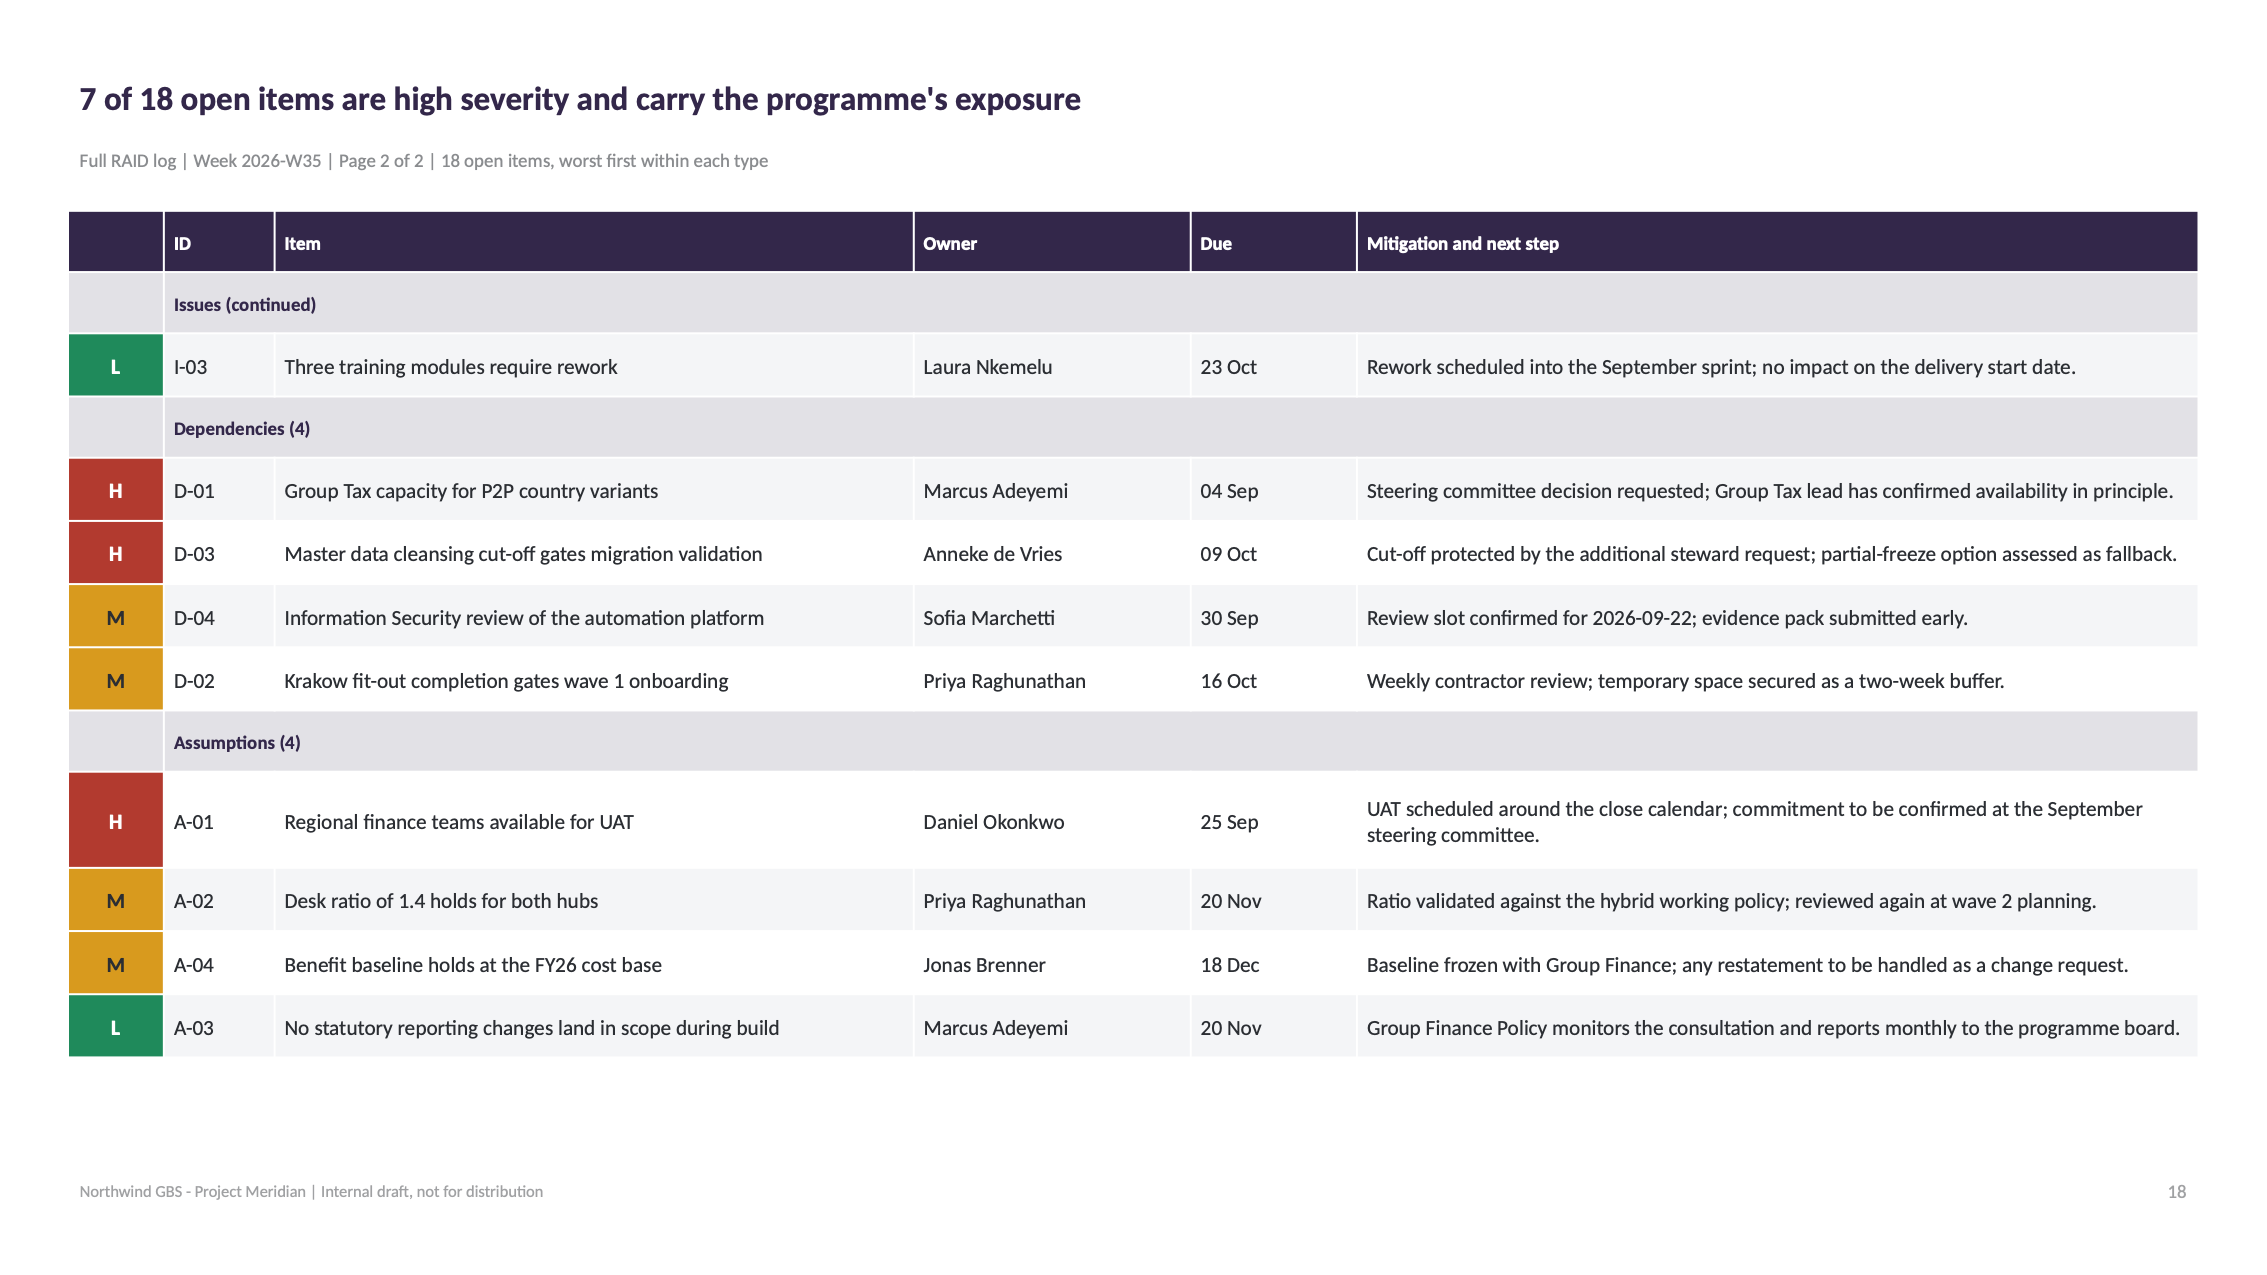
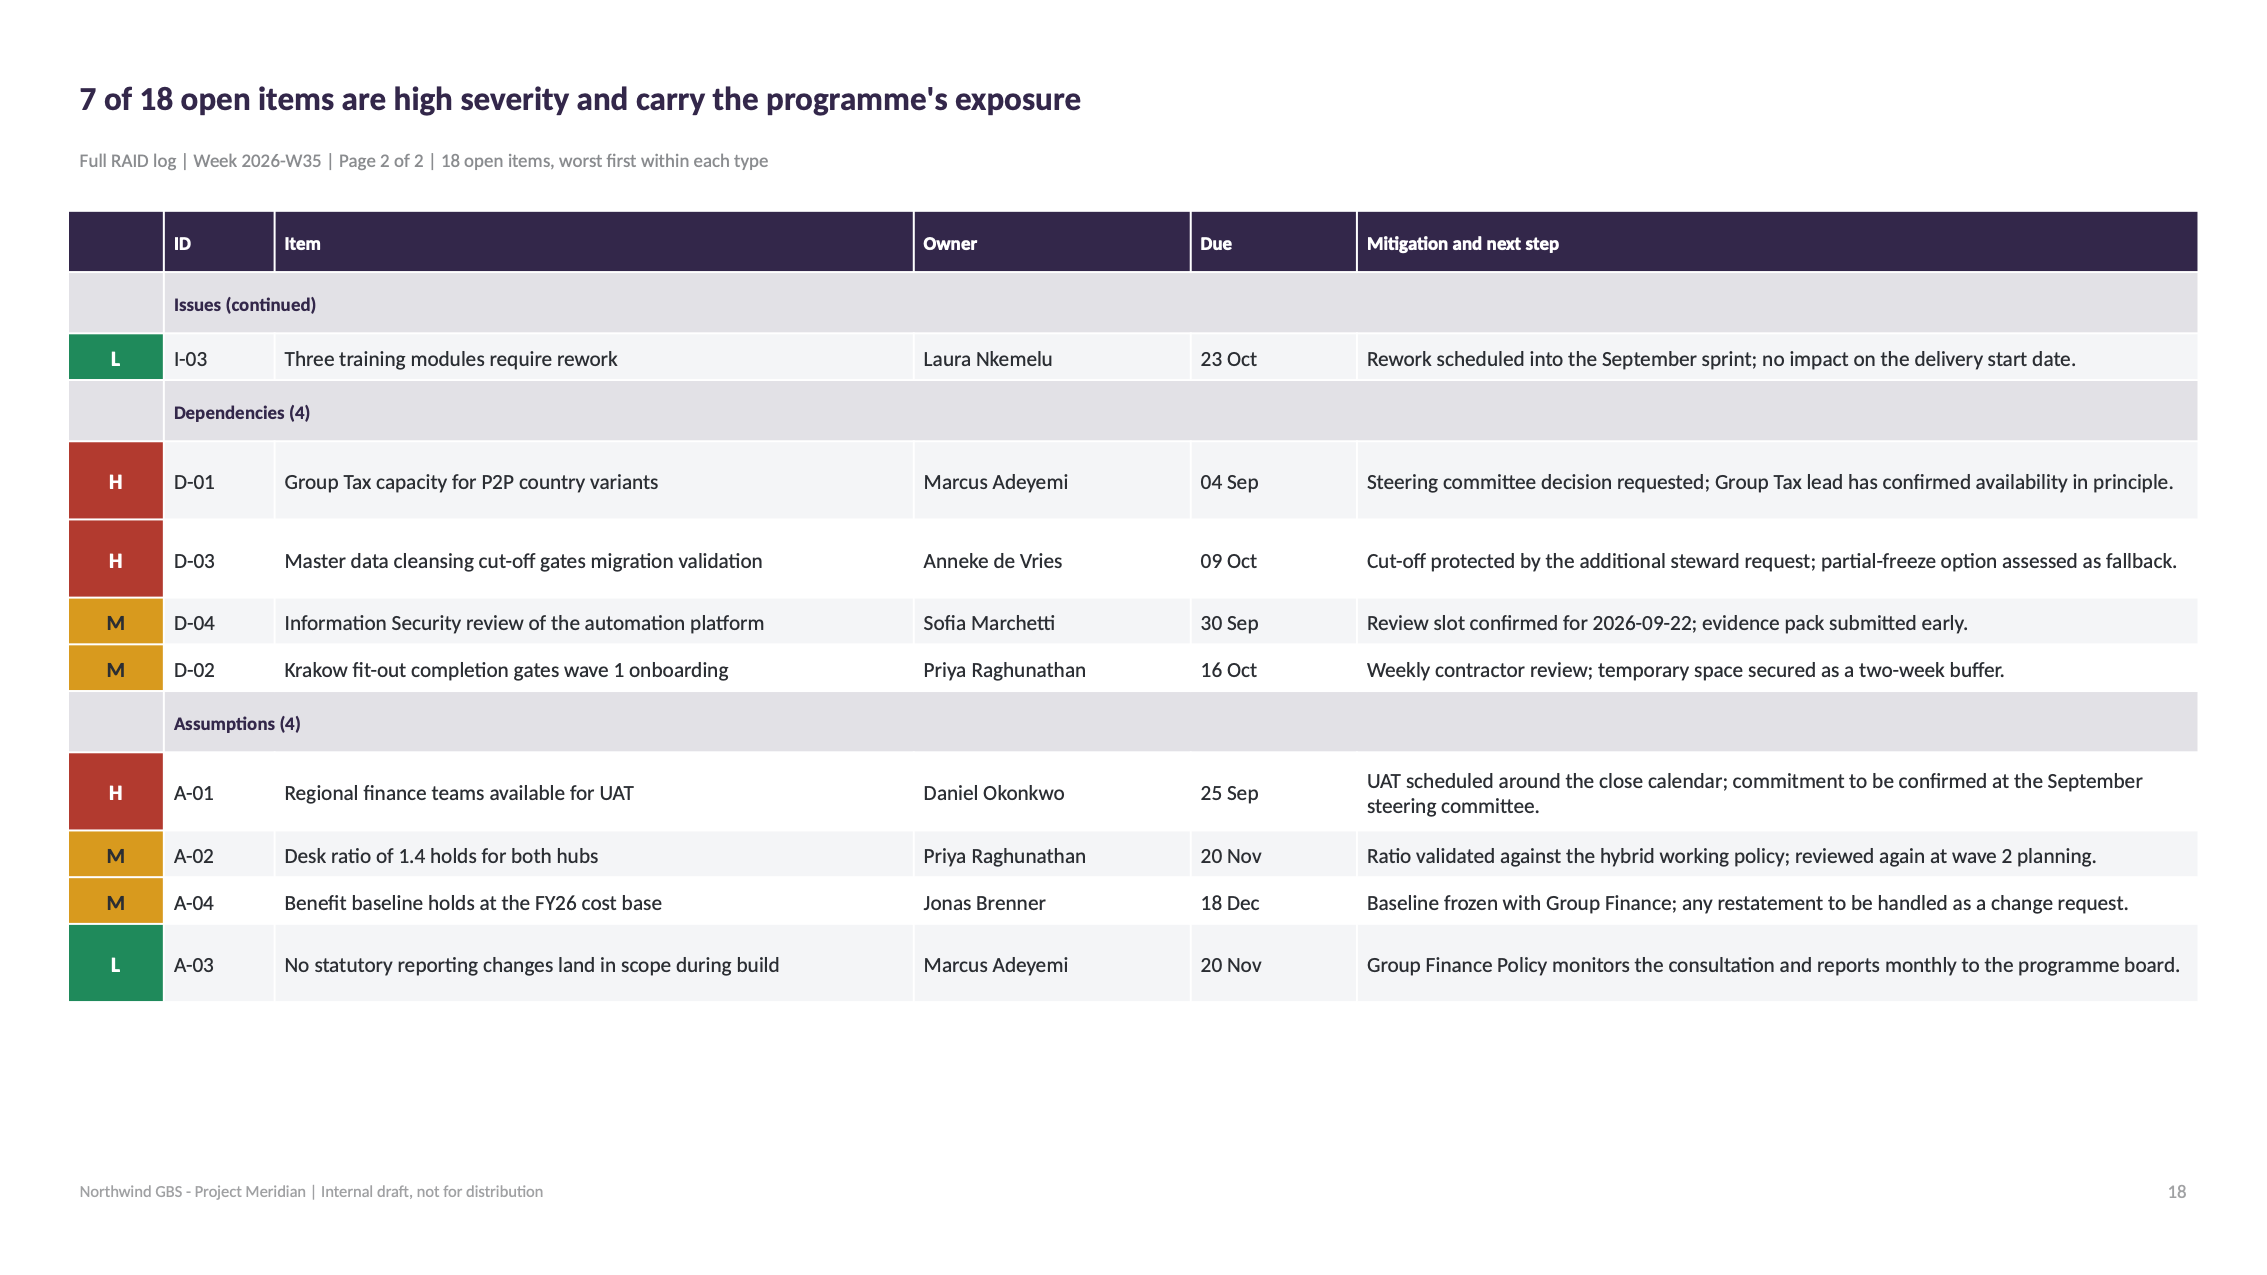
Stop the table walking into the footer
A table row height set through python-pptx is a floor, not a ceiling. Under-declare
one row and the renderer quietly grows it, every row below shifts down, and the
table runs off the bottom of the slide - while the declared geometry, which is all
the linter can see, still looks perfectly correct.

Two things were wrong. A cell's line box is markedly taller than a text frame's:
about 1.48x the font size against the 1.22x text_metrics assumes. And cells were
measured against the full column width, so a row whose text just fits our metrics
wraps one line further in a real renderer. Both figures now err high, because
over-declaring costs a little whitespace and under-declaring costs the slide.

The opening-out of rows into leftover height is gone. It looked better and it kept
re-introducing the same overflow: filling to the last EMU leaves nothing for the
gap between a calibrated figure and a real renderer. A guaranteed-correct table
beats a marginally prettier one.

Found by the visual pass, which is the point of having one - the geometry linter
was clean through every iteration of this bug.

diff --git a/deckpilot/renderer/raid_table.py b/deckpilot/renderer/raid_table.py
@@ -82,34 +82,42 @@ CELL_MARGIN = T.inches(0.03)
 CANDIDATE_SIZES = [T.FS_DENSE, T.FS_DENSE - 0.5, T.FS_MICRO, T.FS_MICRO - 0.5, T.FS_MICRO - 1]
 PREFERRED_SIZE = CANDIDATE_SIZES[0]
 BALANCE_TOLERANCE = T.inches(0.02)
-MAX_ROW_STRETCH = 1.55  # how far a row may open out beyond the height its text needs
+WIDTH_SAFETY = 0.96  # measure against slightly less width than the column really has
+# A declared row height is a floor, not a ceiling: over-declare and the row is
+# simply as tall as asked, under-declare and the renderer grows it and pushes the
+# whole table down the slide. So both figures below err high on purpose, and the
+# rows are never opened out to fill the leftover - an earlier version did that and
+# the table walked into the footer, because filling to the last EMU leaves nothing
+# for the gap between a calibrated figure and a real renderer.
+ROW_OVERHEAD = T.inches(0.03)
+# A table cell's line box is markedly taller than a text box's - measured at
+# roughly 1.45x the font size against the 1.22x that text_metrics assumes for
+# ordinary frames. Using the text-box figure here under-declares every row, and
+# because a declared row height is a floor rather than a ceiling, the renderer
+# quietly grows each one and walks the table off the bottom of the slide.
+TABLE_LINE_HEIGHT = 1.48
 
 
 def _row_lines(row: RaidRow, widths: dict[str, int], size: float) -> int:
-    """How many lines the tallest cell in this row needs."""
+    """How many lines the tallest cell in this row needs.
+
+    Measured against slightly less than the real column width. Our Calibri
+    metrics are close to a renderer's but not identical, and a table row height
+    is a minimum: underestimate one cell by a single word and PowerPoint grows
+    that row, which pushes every row below it down and the table off the slide.
+    Erring wide costs a little whitespace; erring narrow costs the slide.
+    """
+    def usable(key: str) -> float:
+        return (widths[key] - 2 * T.RAID_CELL_PAD) * WIDTH_SAFETY / T.EMU_PER_PT
+
     return max(
-        tm.line_count(text, (widths[key] - 2 * T.RAID_CELL_PAD) / T.EMU_PER_PT, size)
+        tm.line_count(text, usable(key), size)
         for key, text in (
             ("title", row.title),
             ("mitigation", row.mitigation),
             ("owner", row.owner),
         )
     )
-
-
-def _spread(heights: list[int], available: int) -> list[int]:
-    """Open the rows out into whatever height is left over.
-
-    A table that stops two thirds of the way down its slide looks like a table
-    that was cut off. Spreading the surplus across the rows fills the same slide
-    with the same content and reads as a deliberate rhythm - capped, because past
-    a point a row stops looking generous and starts looking empty.
-    """
-    surplus = available - sum(heights)
-    if surplus <= 0 or not heights:
-        return heights
-    per_row = surplus // len(heights)
-    return [min(h + per_row, int(h * MAX_ROW_STRETCH)) for h in heights]
 
 
 def _plan(rows: list[RaidRow], widths: dict[str, int], groups: int,
@@ -124,13 +132,16 @@ def _plan(rows: list[RaidRow], widths: dict[str, int], groups: int,
     fixed = T.RAID_HEADER_H + groups * T.RAID_GROUP_H
     heights: list[int] = []
     for size in CANDIDATE_SIZES:
-        line_h = size * tm.LINE_HEIGHT_FACTOR * T.EMU_PER_PT
+        line_h = size * TABLE_LINE_HEIGHT * T.EMU_PER_PT
         heights = [
-            max(T.RAID_ROW_MIN_H, int(_row_lines(row, widths, size) * line_h) + 2 * CELL_MARGIN)
+            max(
+                T.RAID_ROW_MIN_H,
+                int(_row_lines(row, widths, size) * line_h) + 2 * CELL_MARGIN + ROW_OVERHEAD,
+            )
             for row in rows
         ]
         if fixed + sum(heights) <= available:
-            return size, _spread(heights, available - fixed)
+            return size, heights
     log.warning(
         "raid table: %d rows do not fit %.2f in even at %.1fpt",
         len(rows), available / T.EMU_PER_INCH, CANDIDATE_SIZES[-1],
@@ -160,11 +171,12 @@ def _break_into_pages(
     its own rather than being deferred forever.
     """
     cap = available if available_cap is None else available_cap
-    line_h = size * tm.LINE_HEIGHT_FACTOR * T.EMU_PER_PT
+    line_h = size * TABLE_LINE_HEIGHT * T.EMU_PER_PT
 
     def height(row: RaidRow) -> int:
         return max(
-            T.RAID_ROW_MIN_H, int(_row_lines(row, widths, size) * line_h) + 2 * CELL_MARGIN
+            T.RAID_ROW_MIN_H,
+            int(_row_lines(row, widths, size) * line_h) + 2 * CELL_MARGIN + ROW_OVERHEAD,
         )
 
     pages: list[Page] = []

diff --git a/tests/test_pagination.py b/tests/test_pagination.py
@@ -11,6 +11,7 @@ import pytest
 
 from deckpilot.data.generate import build_programme
 from deckpilot.renderer import raid_table
+from deckpilot.renderer import text_metrics as tm
 from deckpilot.renderer.base import new_deck
 from deckpilot.renderer.qa import check_slide
 from deckpilot.specgen import fallback
@@ -165,22 +166,16 @@ def test_every_appendix_page_is_clean_and_above_the_footer():
         assert frame.top + frame.height <= T.footer_top()
 
 
-def test_rows_open_out_but_not_without_limit(rows):
-    """Surplus height is spread across rows, capped so none looks abandoned."""
+def test_declared_heights_err_high_rather_than_low(rows):
+    """A row height is a floor: the renderer grows anything under-declared."""
     widths = raid_table.column_widths(WIDTH)
-    natural = [
-        max(
-            T.RAID_ROW_MIN_H,
-            int(
-                raid_table._row_lines(row, widths, raid_table.PREFERRED_SIZE)
-                * raid_table.PREFERRED_SIZE
-                * 1.22
-                * T.EMU_PER_PT
-            ),
+    for row in rows:
+        lines = raid_table._row_lines(row, widths, raid_table.PREFERRED_SIZE)
+        bare = tm.line_count(
+            row.mitigation,
+            (widths["mitigation"] - 2 * T.RAID_CELL_PAD) / T.EMU_PER_PT,
+            raid_table.PREFERRED_SIZE,
         )
-        for row in rows[:4]
-    ]
-    spread = raid_table._spread(list(natural), sum(natural) * 4)
-    for before, after in zip(natural, spread, strict=True):
-        assert after >= before
-        assert after <= before * raid_table.MAX_ROW_STRETCH + 1
+        assert lines >= bare, row.id
+    assert raid_table.TABLE_LINE_HEIGHT > tm.LINE_HEIGHT_FACTOR
+    assert raid_table.WIDTH_SAFETY < 1.0

diff --git a/README.md b/README.md
@@ -204,7 +204,14 @@ named, so it can tell a title and subtitle set deliberately tight from two boxes
 collided (`bleed:` crosses the margin on purpose, `marker:` sits on top of something on
 purpose, `surface:` is a background band other content comes right up to).
 
-The **visual pass** finds what only eyes catch. `scripts/qa.py` converts the deck to PDF
+The **visual pass** finds what only eyes catch — including one class of fault the linter
+cannot see at all. A table's *declared* height can be perfectly within the content area
+while the *rendered* table runs into the footer, because a row height is a floor and the
+renderer grows anything under-declared. A cell's line box in a table turned out to be about
+1.48x the font size against the 1.22x an ordinary text frame uses; nothing but a rendered
+page shows that.
+
+The visual pass `scripts/qa.py` converts the deck to PDF
 with LibreOffice and rasterises each page with CoreGraphics — headless, about four seconds
 for a deck, with no GUI application involved. It needs LibreOffice on the path and, on
 macOS, `pip install -e '.[qa]'` for the rasteriser.
